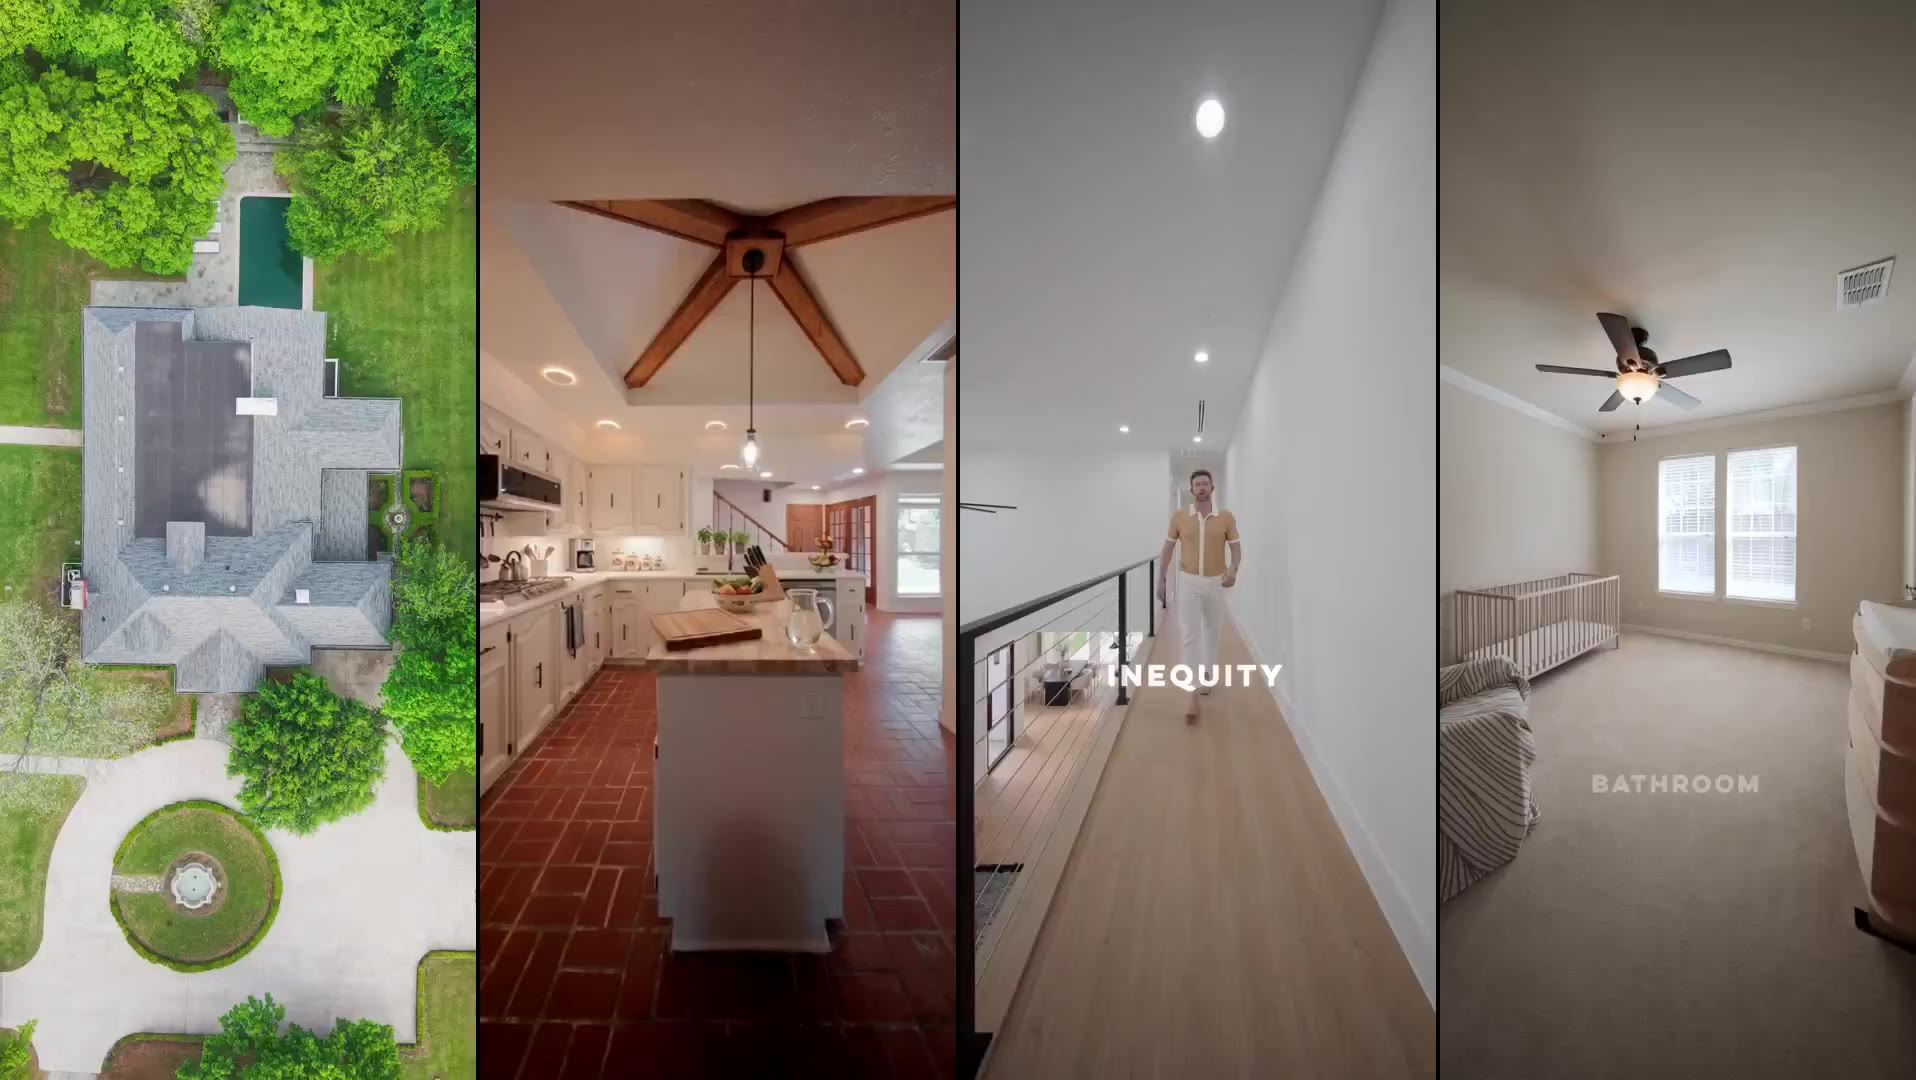
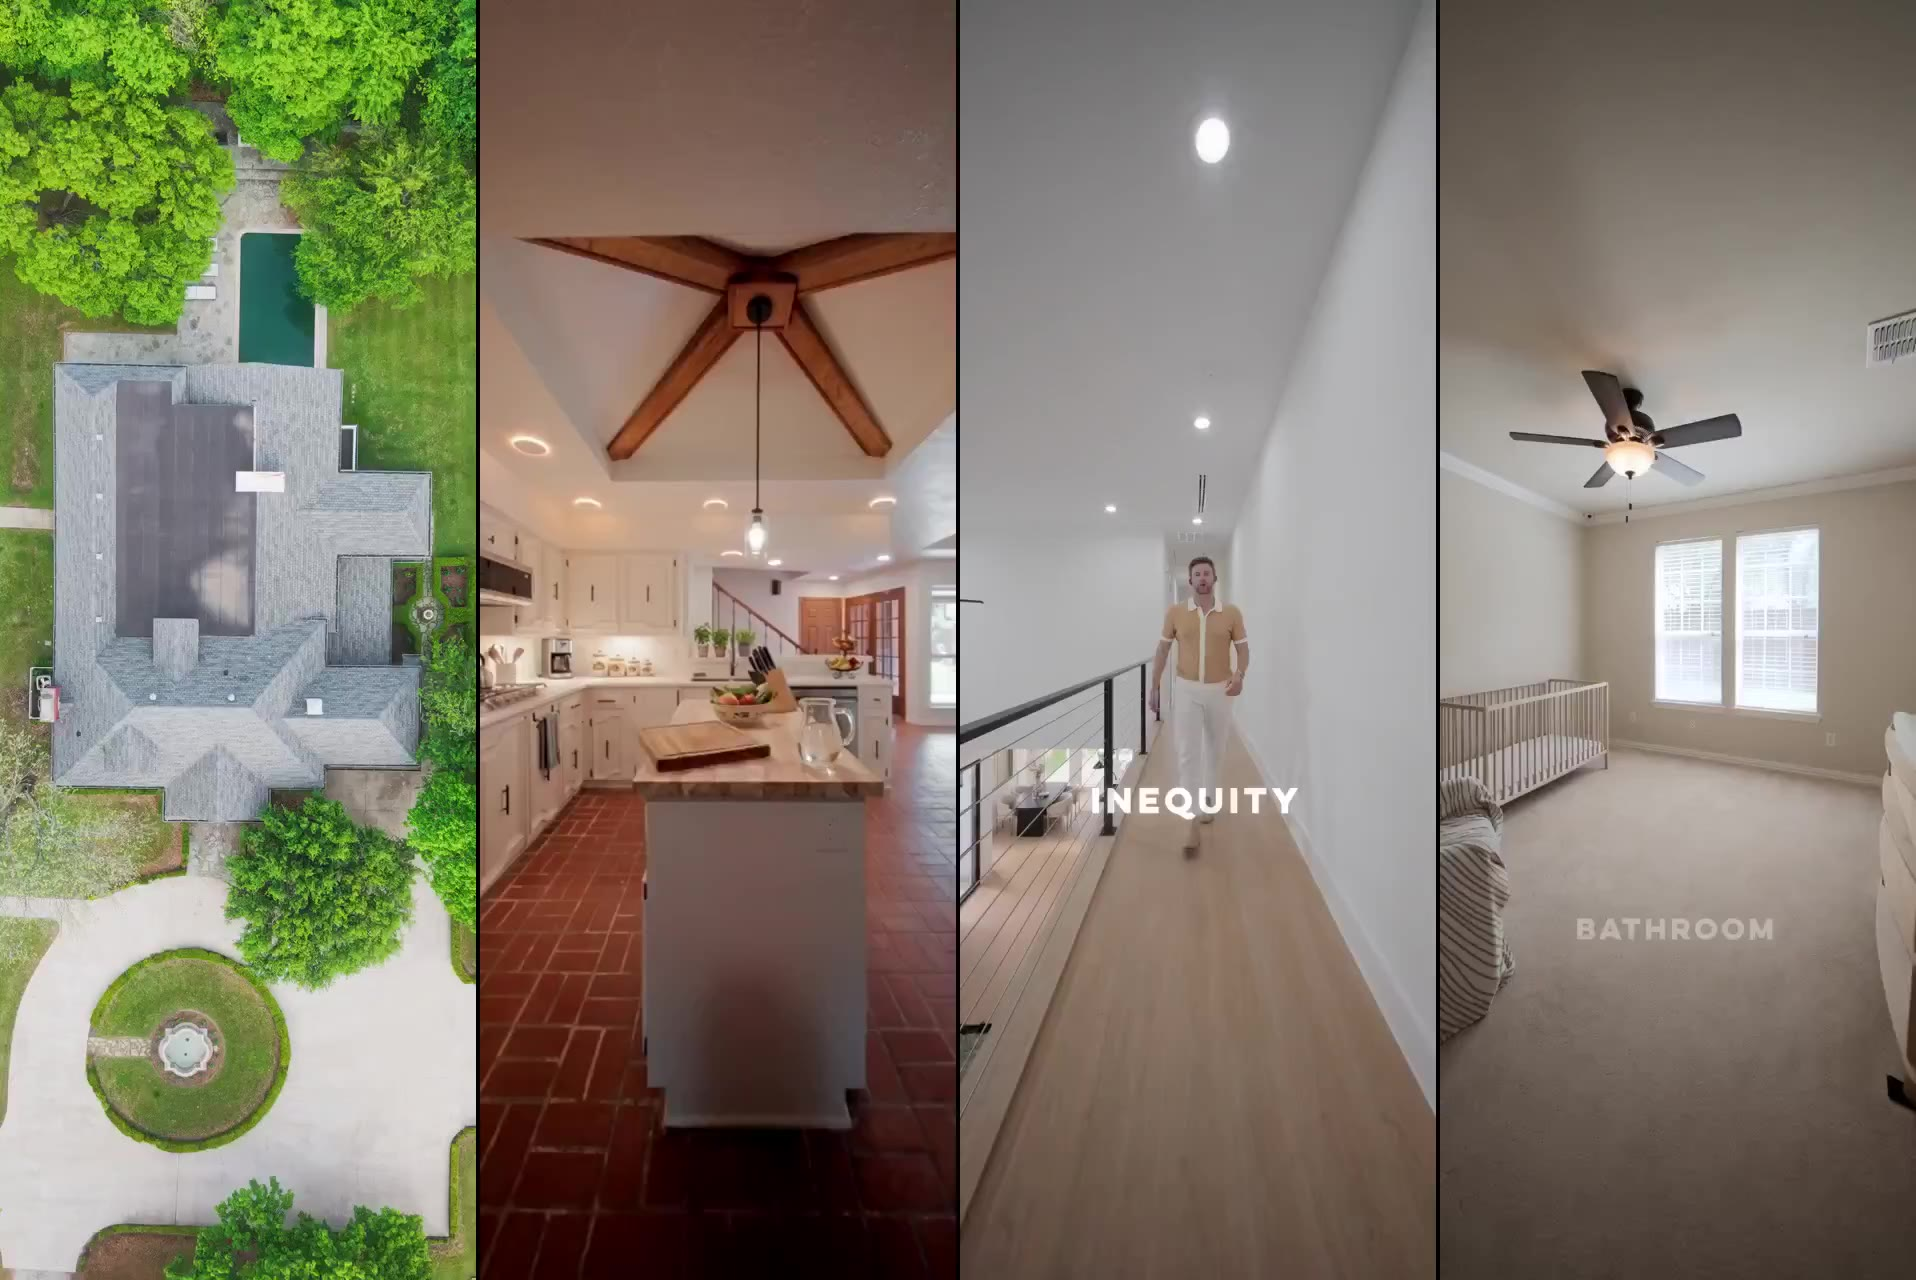
Hero: taller wall so edge columns stay in frame + separate vertical reel for mobile

diff --git a/index.html b/index.html
@@ -586,7 +586,15 @@
 
 <script>
   // ensure hero video autoplays (muted autoplay can need a nudge)
-  (function(){var hv=document.querySelector('#hero video');if(!hv)return;hv.muted=true;function go(){var p=hv.play();if(p&&p.catch)p.catch(function(){});}go();document.addEventListener('visibilitychange',function(){if(!document.hidden)go();});['touchstart','click'].forEach(function(e){document.addEventListener(e,go,{once:true,passive:true});});})();
+  (function(){var hv=document.querySelector('#hero video');if(!hv)return;
+    var B='https://portaproductions.com/assets/';
+    if(window.matchMedia('(max-width:760px)').matches){ // phones: single vertical reel fills the screen
+      hv.poster=B+'hero-mobile-poster.jpg'; hv.src=B+'hero-mobile.mp4'; hv.load();
+    }
+    hv.muted=true;function go(){var p=hv.play();if(p&&p.catch)p.catch(function(){});}go();
+    document.addEventListener('visibilitychange',function(){if(!document.hidden)go();});
+    ['touchstart','click'].forEach(function(e){document.addEventListener(e,go,{once:true,passive:true});});
+  })();
 
   // mobile menu
   var burger=document.getElementById('burger'),navlinks=document.getElementById('navlinks');